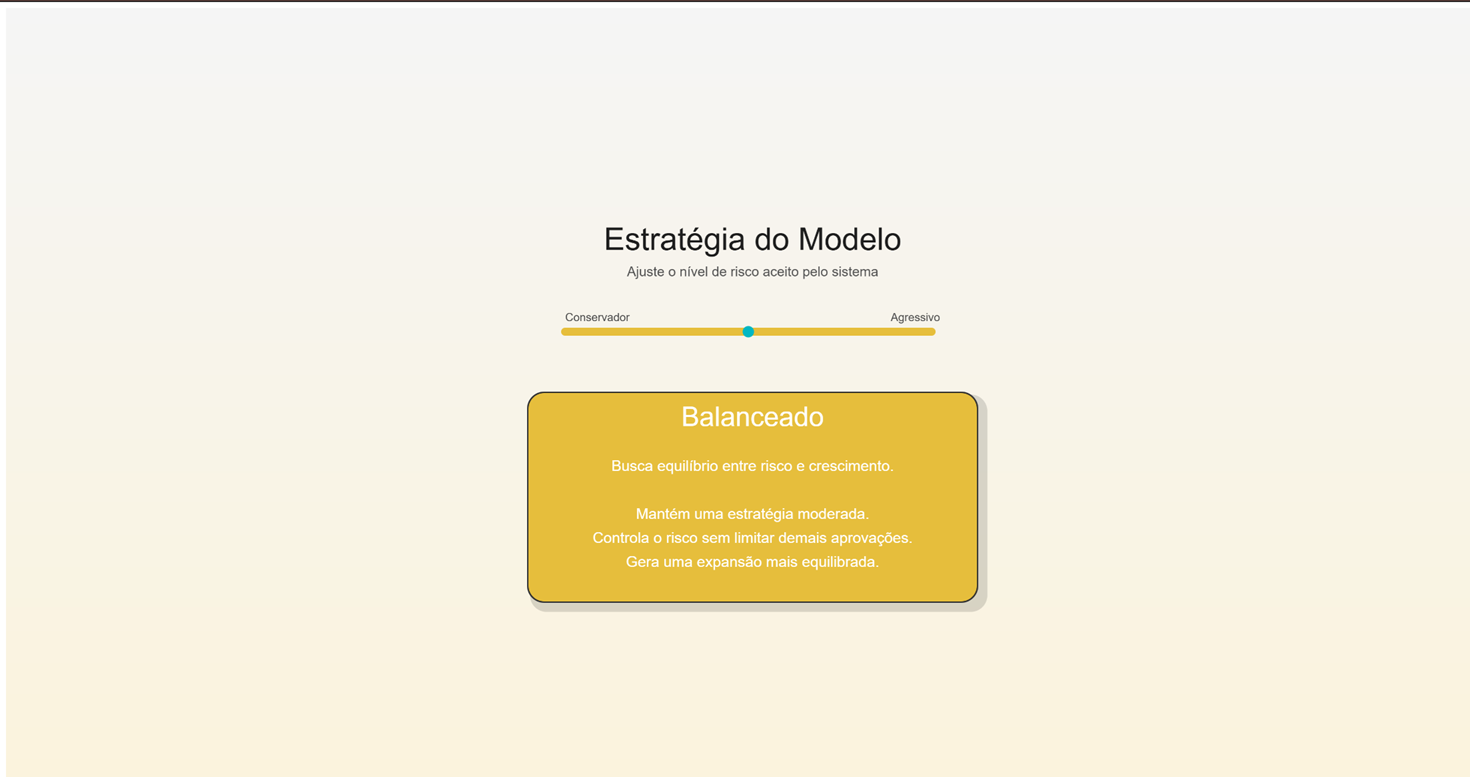
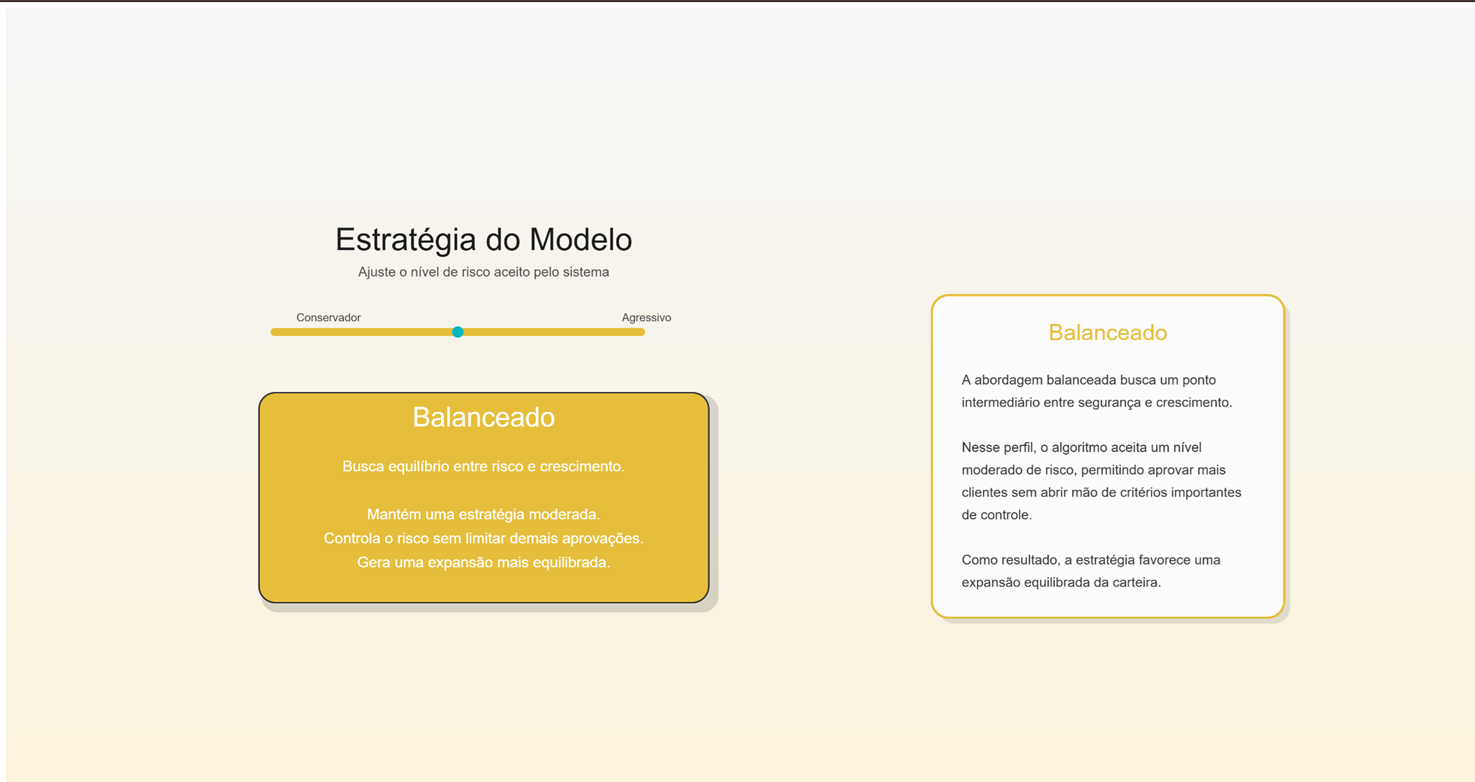
add/alterações finais

diff --git a/código/BrunoGabrielGiordanoGuilhemeKadayan.js b/código/BrunoGabrielGiordanoGuilhemeKadayan.js
@@ -4,7 +4,7 @@ function setup() {
   createCanvas(windowWidth, windowHeight);
 
   slider = createSlider(0, 100, 50);
-  slider.position(width / 2 - 250, height / 2 - 100);
+  slider.position(width * 0.18, height / 2 - 100);
   slider.size(500);
 
   slider.style("-webkit-appearance", "none");
@@ -19,87 +19,139 @@ function draw() {
   let cor;
   let titulo;
   let descricao;
+  let descricaoDetalhada;
 
   if (valor < 33) {
     cor = color(70, 170, 120);
     titulo = "Conservador";
+
     descricao =
       "Prioriza segurança e reduz riscos.\n\n" +
       "Aprova apenas perfis mais confiáveis.\n" +
       "Reduz chances de inadimplência.\n" +
       "Crescimento mais controlado.";
+
+    descricaoDetalhada =
+      "A abordagem conservadora prioriza a segurança financeira do banco.\n\n" +
+      "Nesse perfil, o algoritmo tende a ser mais restritivo na concessão de crédito, aprovando principalmente clientes com maior confiabilidade e menor risco de inadimplência.\n\n" +
+      "Como resultado, a carteira cresce de forma mais lenta, porém com maior segurança.";
+
   } else if (valor < 66) {
     cor = color(230, 190, 60);
     titulo = "Balanceado";
+
     descricao =
       "Busca equilíbrio entre risco e crescimento.\n\n" +
       "Mantém uma estratégia moderada.\n" +
       "Controla o risco sem limitar demais aprovações.\n" +
       "Gera uma expansão mais equilibrada.";
+
+    descricaoDetalhada =
+      "A abordagem balanceada busca um ponto intermediário entre segurança e crescimento.\n\n" +
+      "Nesse perfil, o algoritmo aceita um nível moderado de risco, permitindo aprovar mais clientes sem abrir mão de critérios importantes de controle.\n\n" +
+      "Como resultado, a estratégia favorece uma expansão equilibrada da carteira.";
+
   } else {
     cor = color(220, 80, 80);
     titulo = "Agressivo";
+
     descricao =
       "Maximiza aprovações e crescimento.\n\n" +
       "Aceita perfis com maior risco.\n" +
       "Aumenta o potencial de crescimento.\n" +
       "Eleva a exposição à inadimplência.";
+
+    descricaoDetalhada =
+      "A abordagem agressiva prioriza o crescimento da carteira e o aumento das aprovações.\n\n" +
+      "Nesse perfil, o algoritmo é menos restritivo e aceita clientes com maior nível de risco, buscando ampliar o alcance da concessão de crédito.\n\n" +
+      "Como resultado, há maior potencial de retorno e expansão, mas também maior risco.";
   }
 
-  // fundo com gradiente 
   desenharGradiente(cor);
 
-  // cor da barra
   slider.style("background", cor.toString());
 
-  // título
+  let blocoX = width * 0.32;
+
   noStroke();
   fill(30);
   textAlign(CENTER);
   textSize(42);
-  text("Estratégia do Modelo", width / 2, height / 2 - 210);
+  text("Estratégia do Modelo", blocoX, height / 2 - 210);
 
-  // subtítulo
   fill(80);
   textSize(18);
-  text(
-    "Ajuste o nível de risco aceito pelo sistema",
-    width / 2,
-    height / 2 - 175
-  );
+  text("Ajuste o nível de risco aceito pelo sistema", blocoX, height / 2 - 175);
 
-  // labels da barra
   fill(70);
   textSize(15);
   textAlign(LEFT);
-  text("Conservador", width / 2 - 250, height / 2 - 115);
+  text("Conservador", blocoX - 250, height / 2 - 115);
 
   textAlign(RIGHT);
-  text("Agressivo", width / 2 + 250, height / 2 - 115);
+  text("Agressivo", blocoX + 250, height / 2 - 115);
 
-  // sombra da caixa
+
+  rectMode(CENTER);
+
   noStroke();
   fill(0, 35);
-  rectMode(CENTER);
-  rect(width / 2 + 8, height / 2 + 128, 610, 290, 22);
+  rect(blocoX + 8, height / 2 + 128, 610, 290, 22);
 
-  // caixa principal
   fill(cor);
   stroke(50);
   strokeWeight(2);
-  rect(width / 2, height / 2 + 120, 600, 280, 22);
+  rect(blocoX, height / 2 + 120, 600, 280, 22);
 
-  // texto da caixa
   noStroke();
   fill(255);
   textAlign(CENTER);
 
   textSize(36);
-  text(titulo, width / 2, height / 2 + 25);
+  text(titulo, blocoX, height / 2 + 25);
 
   textSize(20);
   textLeading(32);
-  text(descricao, width / 2, height / 2 + 85);
+  text(descricao, blocoX, height / 2 + 85);
+
+
+  let caixaX = width * 0.62;
+  let caixaY = height / 2 - 150;
+  let caixaLargura = 470;
+  let caixaAltura = 430;
+
+  rectMode(CORNER);
+
+  noStroke();
+  fill(0, 25);
+  rect(caixaX + 8, caixaY + 8, caixaLargura, caixaAltura, 22);
+
+
+  fill(255, 235);
+  stroke(cor);
+  strokeWeight(3);
+  rect(caixaX, caixaY, caixaLargura, caixaAltura, 22);
+
+
+  noStroke();
+  fill(cor);
+  textAlign(CENTER);
+  textSize(30);
+  text(titulo, caixaX + caixaLargura / 2, caixaY + 60);
+
+
+  fill(50);
+  textAlign(LEFT);
+  textSize(18);
+  textLeading(30);
+
+  text(
+    descricaoDetalhada,
+    caixaX + 40,
+    caixaY + 105,
+    caixaLargura - 80,
+    caixaAltura - 130
+  );
 }
 
 function desenharGradiente(corBase) {
@@ -117,6 +169,5 @@ function desenharGradiente(corBase) {
 
 function windowResized() {
   resizeCanvas(windowWidth, windowHeight);
-
-  slider.position(width / 2 - 250, height / 2 - 100);
+  slider.position(width * 0.18, height / 2 - 100);
 }
